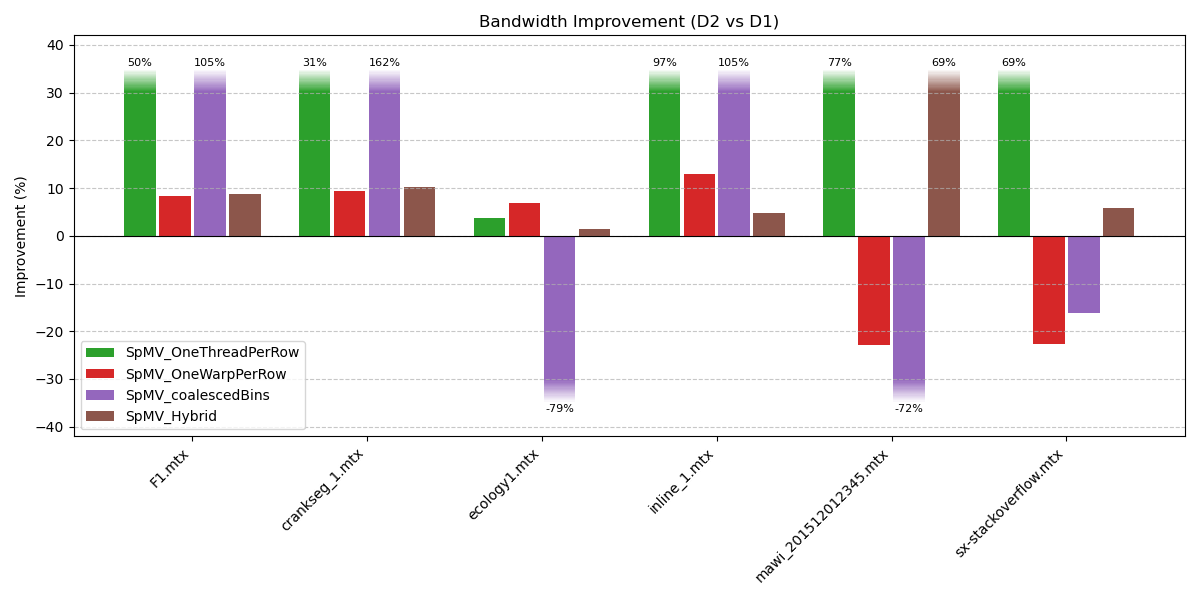
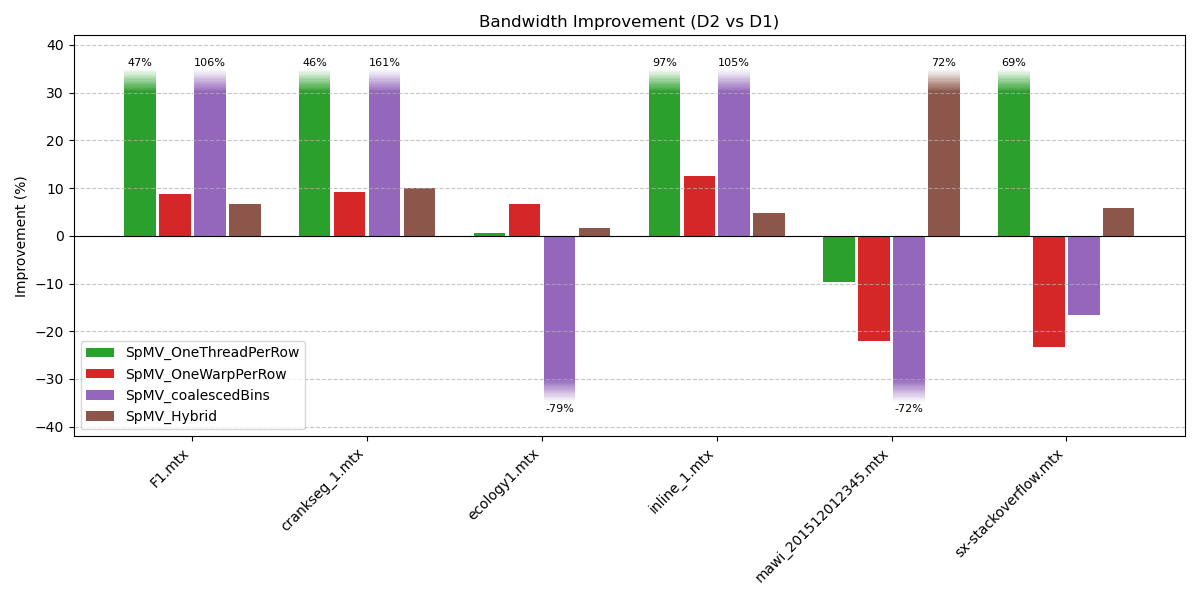
refactor kernel error checking and update results data

diff --git a/Deliverable2/lib/mtx_utils.c b/Deliverable2/lib/mtx_utils.c
@@ -186,19 +186,16 @@ void classify_rows(int* row_ptr, int rows, int* short_rows, int* medium_rows, in
 
 int suggest_minBlocksPerSM(const CSR_matrix* matrix, int block_dim, int max_nnz,
                            double avg_nnz_per_row) {
-  int minBlocksPerSM = 1;
+    int minBlocksPerSM = 0; // Default for heavy workload
 
-  if (avg_nnz_per_row < 8 && max_nnz < 16) {
-    // Very light workload per row
-    minBlocksPerSM = 0;  // Just used as a placeholder
-  } else if (avg_nnz_per_row < 64) {
-    // Moderate workload
-    minBlocksPerSM = 2;
-  } else if (avg_nnz_per_row < 512 || max_nnz < 2048) {
-    // Heavy workload
-    minBlocksPerSM = 3;
-  }
-
-  printf("Suggested __launch_bounds__(%d, %d)\n", block_dim, minBlocksPerSM);
-  return minBlocksPerSM;
+    if (avg_nnz_per_row < 8) {
+      minBlocksPerSM = 0;
+    } else if (avg_nnz_per_row > 64) {
+      minBlocksPerSM = 1;
+    } else {    // Avg > 8 and < 64
+      minBlocksPerSM = 2;
+    }
+    printf("Suggested __launch_bounds__(%d, %d)\n", block_dim, minBlocksPerSM);
+    return minBlocksPerSM;
 }
+

diff --git a/Deliverable2/README.md b/Deliverable2/README.md
@@ -126,4 +126,7 @@ All generated plots are saved in the `./results/` directory.
 ## Notes
 A detailed analysis of the project, including implementation choices and performance evaluation, is available in the [project report](./Deliverable2_report.pdf).
 
+
+During the development of the project, the plot [`bandwidth_minBlockPerSM_plot.png`](./img/bandwidth_minBlockPerSM_plot.png) was generated. This plot was created by running experiments on various launch-bound implementations (modifying the `minBlockPerSM` parameter). Based on the results, the conditions for the function [`suggest_minBlocksPerSM`](./lib/mtx_utils.c) in `.lib/mtx_utils.c` were determined.
+
 ---
